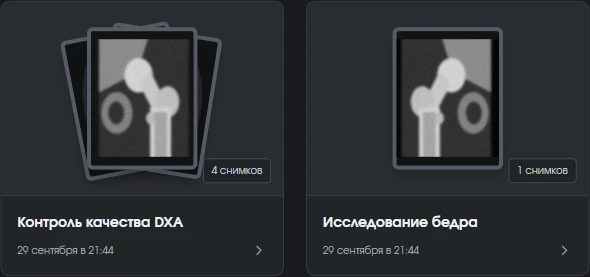
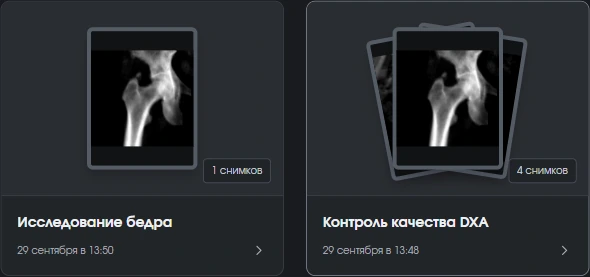
feat(landing): restore dataset showcase and link docs site
- Bring back the original landing screenshots with dataset images
- Point the header "Документация" link to the GitHub Pages site
- Clarify in CLAUDE.md that the no-external-transfer rule applies to the
  running solution, as stated in the task requirements

diff --git a/frontend/src/components/AppShell.tsx b/frontend/src/components/AppShell.tsx
@@ -11,7 +11,7 @@ export default function AppShell({ children, dark = false }: AppShellProps) {
     <div className={dark ? 'app-shell app-shell--dark' : 'app-shell'}>
       <header className="site-header">
         <nav className="site-nav" aria-label="Основная навигация">
-          <a href="http://localhost:8000/docs" target="_blank" rel="noreferrer">
+          <a href="https://droyti46.github.io/dexq/" target="_blank" rel="noreferrer">
             Документация
           </a>
           <Link className="wordmark" to="/" aria-label="DEXQ — главная">

diff --git a/CLAUDE.md b/CLAUDE.md
@@ -9,7 +9,7 @@
 - Предпочитай явный список объектов и обычную композицию скрытой регистрации и магии.
 - Один файл — одна понятная ответственность, но не дроби связанный код на микромодули.
 - Медицинскую эвристику всегда маркируй как эвристику. Не называй результат клинически валидированным без доказательств и метрик.
-- Не отправляй DICOM и производные изображения во внешние сервисы.
+- Работающее решение не должно отправлять DICOM и производные изображения во внешние системы (требование ТЗ). Обезличенные снимки из набора организаторов можно использовать в материалах проекта: скриншотах, лендинге, презентации.
 
 ## Python
 

diff --git a/docs/ui/index.md b/docs/ui/index.md
@@ -51,7 +51,7 @@ flowchart LR
 
 <figure markdown>
 ![Главная страница DEXQ](../images/01-landing.png)
-<figcaption>Главная страница. Кнопка «Попробовать демо» ведёт к списку проектов, «Как это работает» — к описанию решения. В шапке — ссылки на документацию API и страницу команды.</figcaption>
+<figcaption>Главная страница. Кнопка «Попробовать демо» ведёт к списку проектов, «Как это работает» — к описанию решения. В шапке — ссылки на эту документацию и страницу команды.</figcaption>
 </figure>
 
 ## Важно знать заранее
